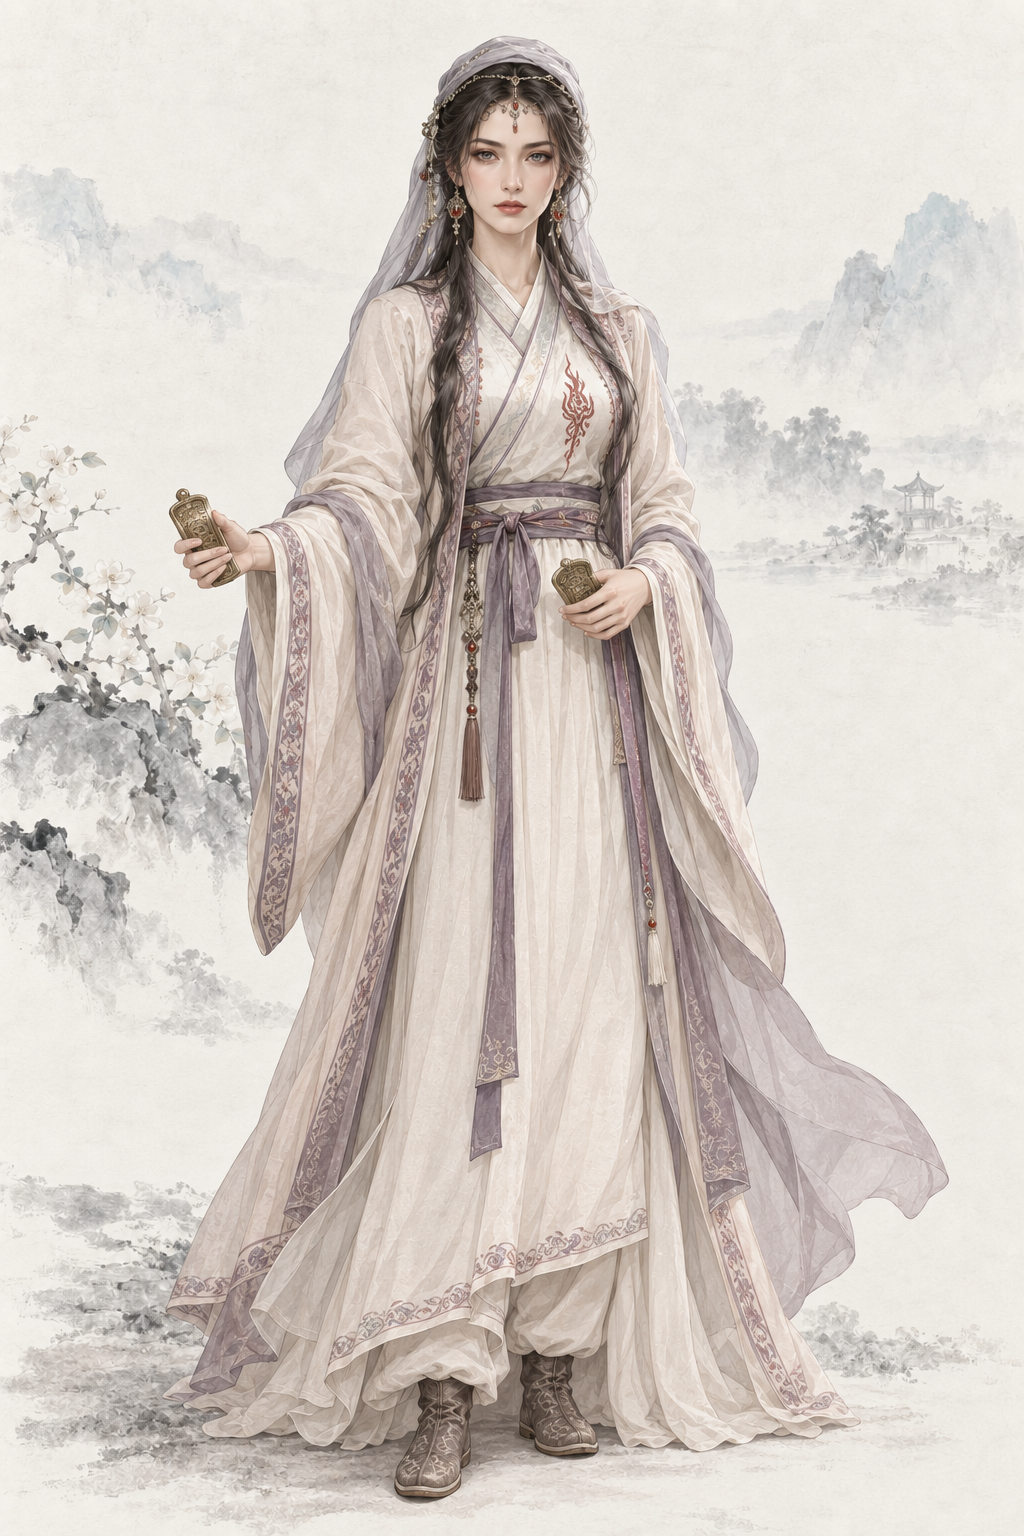
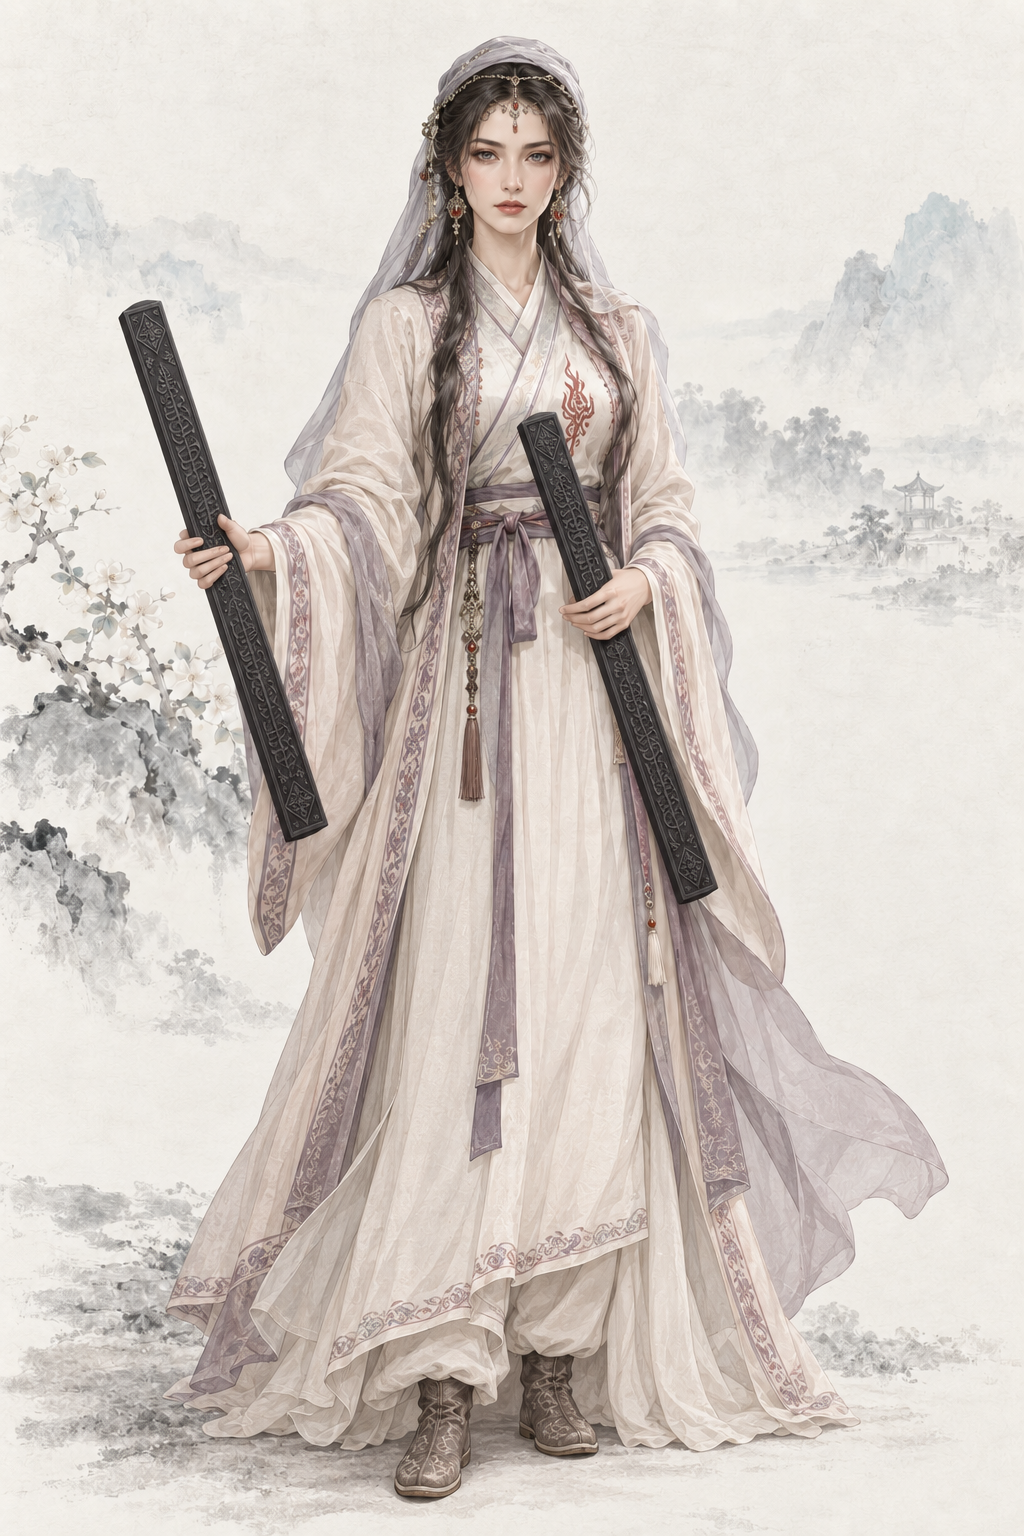
assets: AR-82 原著核对返修 波斯使者圣火令改两尺长黑牌
原著摘句已同步提示词；已打开验图；蒙版外0像素变化。

Executed-By: Codex gpt-6.1-sol（AR-82）

diff --git a/assets/default/prompts/characters/ch04-yitian/npc_huiyueshi.md b/assets/default/prompts/characters/ch04-yitian/npc_huiyueshi.md
@@ -73,3 +73,8 @@ FINAL POSE CHECK: FRONT-FACING 辉月使. Forehead–nose–chin centreline VERT
 - 采用作者授权宽松自查；偏差如实记录，candidate不代表approved。
 - 源PNG通常为1024×1536 RGB；其他原生2:3尺寸如实登记，原字节保存，不裁切、重编码、放大或去除溯源。
 - 完整请求、实际参考哈希及旧版本备份见 `.agents/coord/portrait-generation/identity-20261001/por_npc_huiyueshi__ch04_prime_base.prepared.json`。
+
+## 原著依据
+
+- 《倚天屠龙记》二十九 四女同舟何所望：“每只手中各拿着一条两尺来长的黑牌”；https://www.xuges.com/wuxia/jinyong/yttlj/216.htm
+- AR-82 返修约束（本节优先于历史提示词）：只将两手中短小金色饰牌改成两尺来长的黑色圣火令，每只手一条，长度各约60厘米，长条厚实而非黄金挂牌，非金非玉的黑色材质，浅刻波斯纹且微弱折光。保持原手抓握位置与手指，黑牌长度向手上下延伸、需完整可见，不改变人物脸、衣服或火焰标记。
